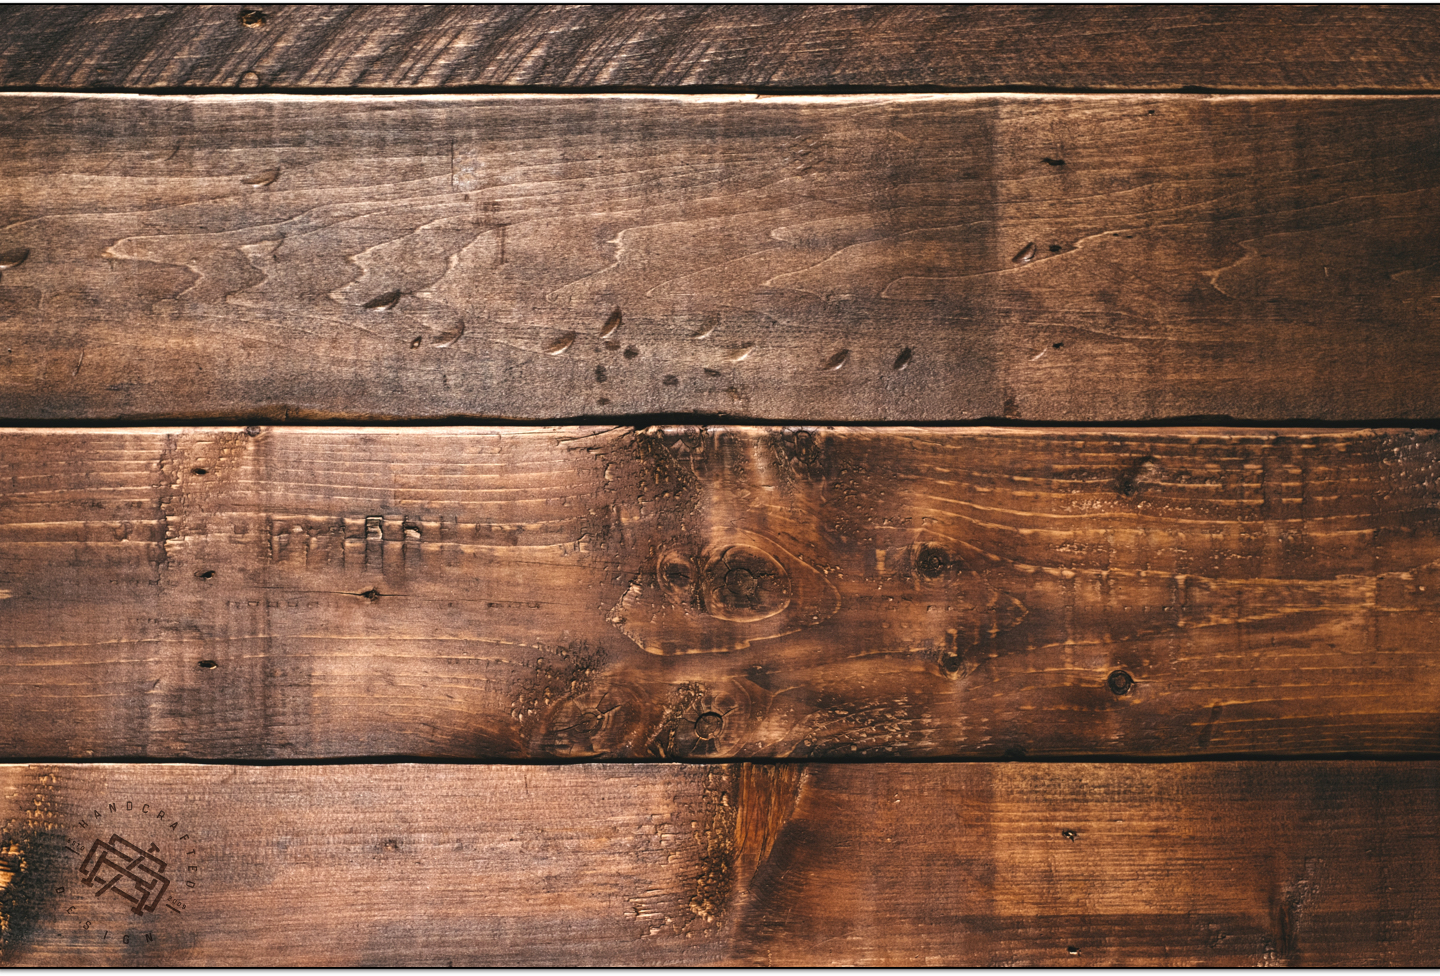
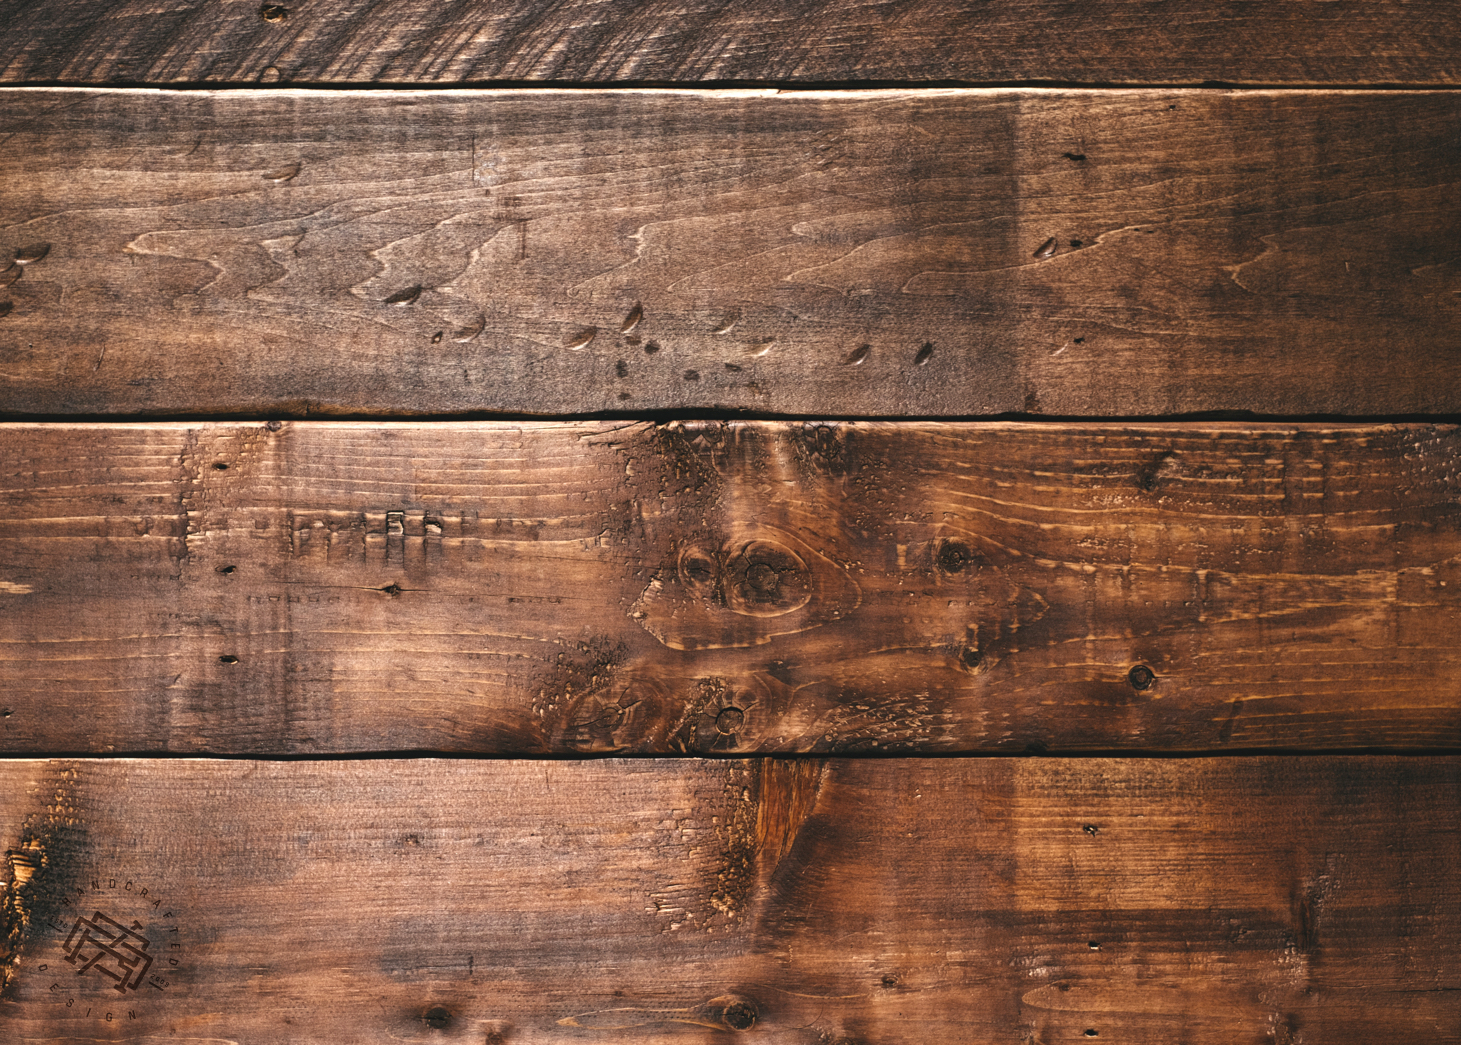
modify brands background image (wood table)

diff --git a/styles/main.scss b/styles/main.scss
@@ -321,6 +321,8 @@ header[role="banner"]{
   @media only screen and (min-width: $tablet-break) {
     background-image: url("../images/background-wood.jpg");
     background-size: cover;
+    background-position: bottom left;
+    box-shadow: 0 0 1px 5px black;
   }
 }
 

diff --git a/styles/main.css b/styles/main.css
@@ -725,6 +725,8 @@ body {
   #brands {
     background-image: url("../images/background-wood.jpg");
     background-size: cover;
+    background-position: bottom left;
+    box-shadow: 0 0 1px 5px black;
   }
 }
 
